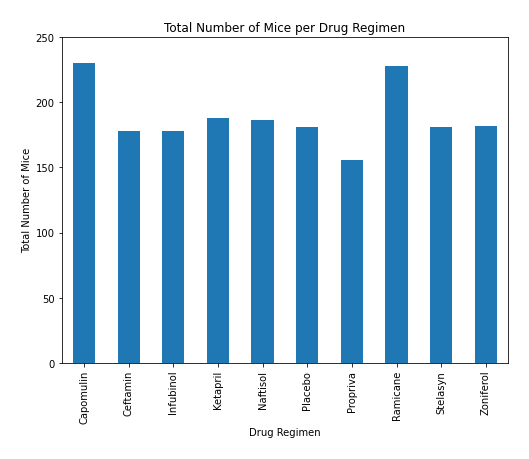
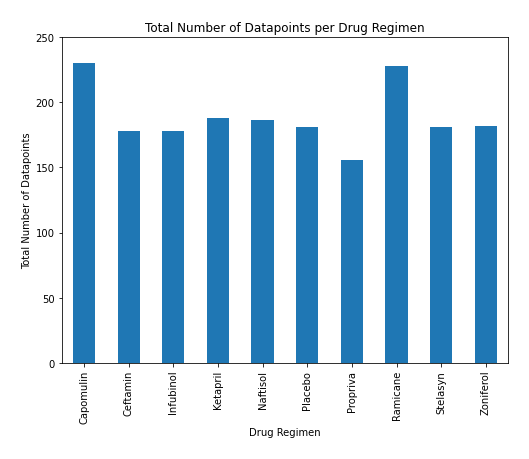
Final cleanup

Changed region(s): [[0.2722, 0.0305, 0.7864, 0.0915], [0.0302, 0.305, 0.0605, 0.5795]]

diff --git a/README.md b/README.md
@@ -45,7 +45,7 @@ The correlation coefficient between mouse weight and average tumor volume for th
 
 ## Observation and Insights
 
-1. Each drug had sample sizes of over 150 mice. This is a sufficient sample size to detect the effect of the drugs on the tumor volume.
+1. Each drug had over 150 datapoints. This is a sufficient sample size to detect the effect of the drugs on the tumor volume.
 
 <img src="Images/mice_bar_chart.png" width="400">
 
